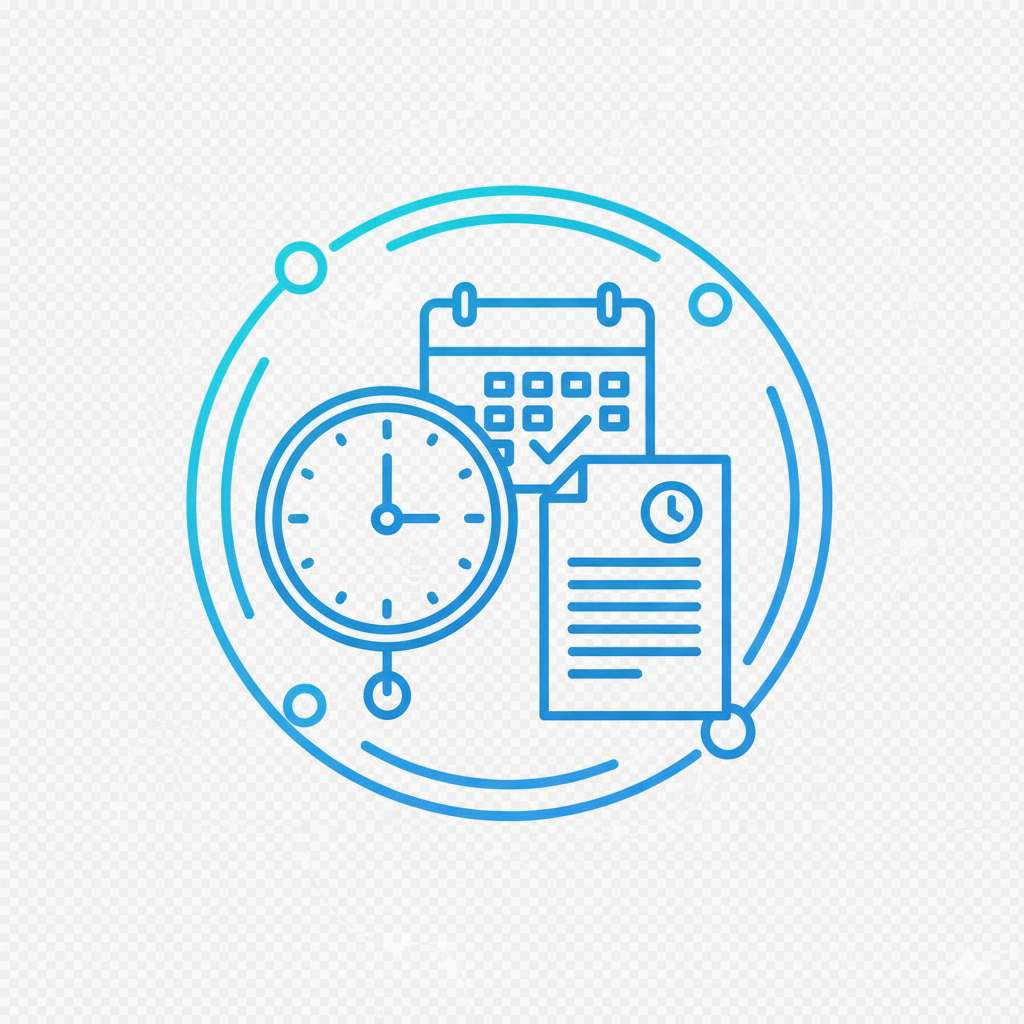
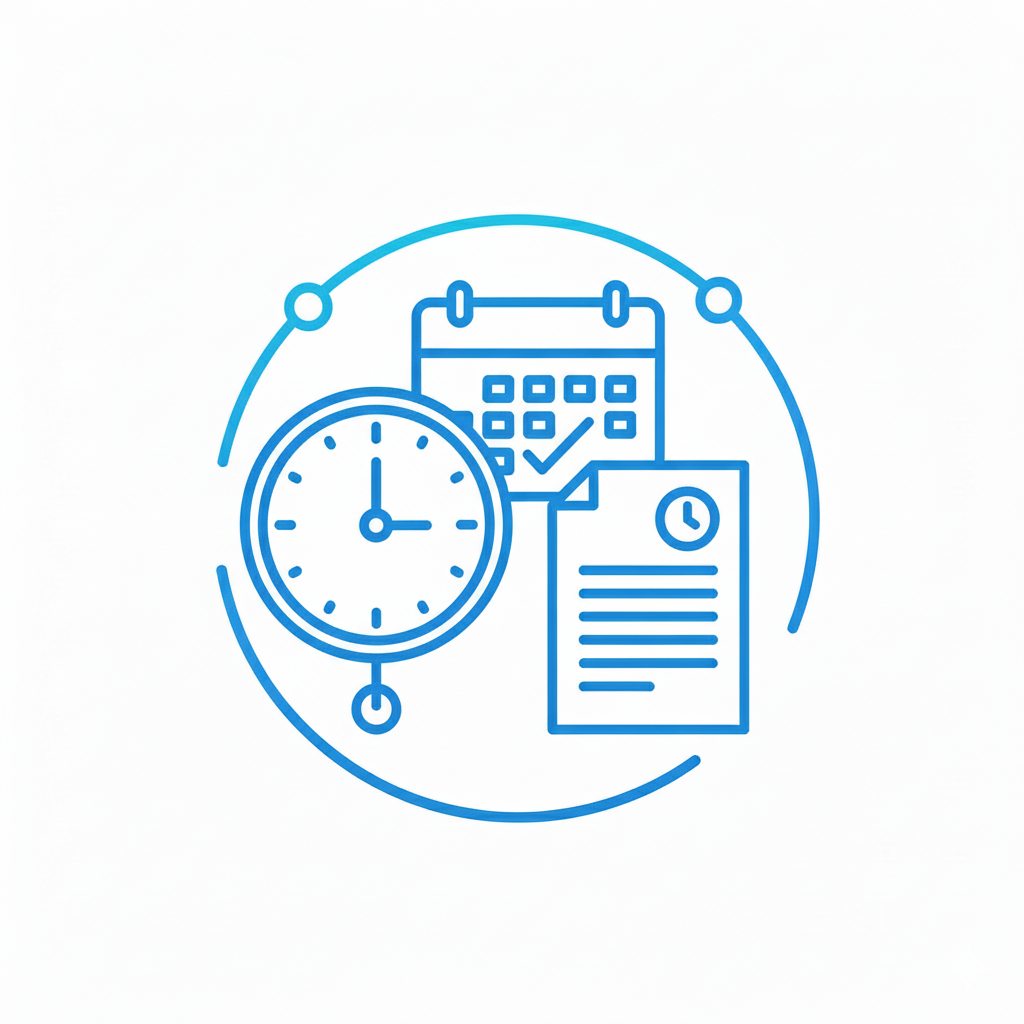
image changed

Changed region(s): [[0.1562, 0.1562, 0.8125, 0.8125]]

diff --git a/src/pages/landingpage.css b/src/pages/landingpage.css
@@ -19,7 +19,7 @@ html, body {
     height: 100vh;
     display: flex;
     flex-direction: column;
-    background-color: #e6eaed;
+    background-color: #ebf0f3;
     font-family: 'Dancing Script', cursive;
     overflow-x: hidden;
     padding: 0;
